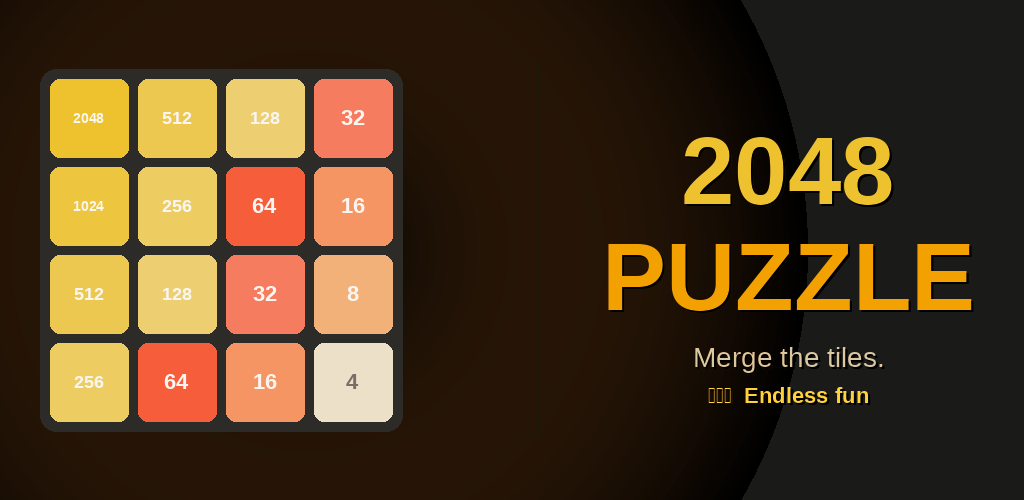
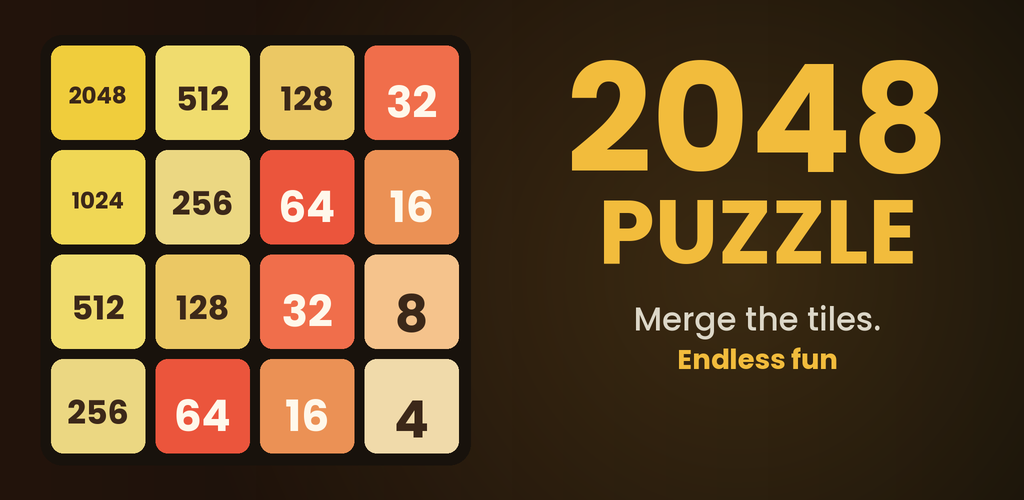
Regenerate Puzzle2048 feature graphic without unsupported emojis
The previous banner showed three "tofu" boxes (□□□) before "Endless
fun" — the source string contained 🪙 (Coin, Unicode 13.0 / 2020) which
the rendering engine's font didn't support and Android <11 doesn't
render either. Replaced with plain-text tagline; no emojis on the
feature graphic per QUALITY_PLAYBOOK §7.1-7.2.

scripts/gen_puzzle2048_feature.py committed as the source generator
so this graphic is reproducible (the original generator was a
one-off that wasn't checked in).

diff --git a/scripts/gen_puzzle2048_feature.py b/scripts/gen_puzzle2048_feature.py
@@ -1,0 +1,166 @@
+#!/usr/bin/env python3
+"""Regenerate Puzzle2048 feature graphic at 1024x500 without emojis.
+
+Matches the existing visual: dark brown gradient + 4x4 tile board on
+left + big yellow "2048 PUZZLE" + tagline on right. Drops the three
+"tofu" boxes (Emoji 13.0 coin glyphs that don't render on Android <11).
+"""
+from PIL import Image, ImageDraw, ImageFilter, ImageFont
+import math
+
+SUPER = 2
+W = 1024 * SUPER
+H = 500 * SUPER
+OUT = '/home/pgs/Documents/Gs/Puzzle2048/store/feature_graphic_1024x500.png'
+
+FONT_BOLD = '/home/pgs/Documents/Gs/scripts/fonts/Poppins-Bold.ttf'
+FONT_MED  = '/home/pgs/Documents/Gs/scripts/fonts/Poppins-Medium.ttf'
+
+# Tile colors matching the 2048 game palette (approx the screenshot)
+TILE_COLORS = {
+    2:    (255, 230, 200),
+    4:    (240, 218, 170),
+    8:    (245, 195, 140),
+    16:   (235, 145,  85),
+    32:   (240, 110,  75),
+    64:   (235,  85,  60),
+    128:  (235, 200, 100),
+    256:  (235, 215, 130),
+    512:  (240, 220, 110),
+    1024: (240, 215,  85),
+    2048: (240, 205,  60),
+}
+
+# 4x4 board values (left-to-right, top-to-bottom) — matches existing banner
+BOARD = [
+    [2048, 512, 128, 32],
+    [1024, 256,  64, 16],
+    [ 512, 128,  32,  8],
+    [ 256,  64,  16,  4],
+]
+
+BG_LEFT   = (35, 20, 12)
+BG_RIGHT  = (15, 12,  8)
+GLOW      = (240, 175, 60)
+TEXT_GOLD = (242, 188, 60)
+TEXT_DIM  = (220, 215, 200)
+
+
+def gradient_bg():
+    img = Image.new('RGB', (W, H), BG_LEFT)
+    px = img.load()
+    cx, cy = int(W * 0.72), int(H * 0.55)   # right-of-center
+    max_r  = int(W * 0.55)
+    for y in range(H):
+        for x in range(W):
+            # Distance from glow center (used to lighten right side)
+            d = math.hypot(x - cx, y - cy) / max_r
+            d = max(0.0, min(1.0, d))
+            t = x / W
+            base = (
+                int(BG_LEFT[0] + (BG_RIGHT[0] - BG_LEFT[0]) * t),
+                int(BG_LEFT[1] + (BG_RIGHT[1] - BG_LEFT[1]) * t),
+                int(BG_LEFT[2] + (BG_RIGHT[2] - BG_LEFT[2]) * t),
+            )
+            glow_strength = max(0, 1 - d) * 0.18
+            px[x, y] = (
+                int(base[0] + (GLOW[0] - base[0]) * glow_strength),
+                int(base[1] + (GLOW[1] - base[1]) * glow_strength),
+                int(base[2] + (GLOW[2] - base[2]) * glow_strength),
+            )
+    return img
+
+
+def round_rect(draw, xy, radius, fill):
+    x0, y0, x1, y1 = xy
+    draw.rounded_rectangle(xy, radius=radius, fill=fill)
+
+
+def text_size(draw, text, font):
+    bbox = draw.textbbox((0, 0), text, font=font)
+    return bbox[2] - bbox[0], bbox[3] - bbox[1]
+
+
+def draw_tile(canvas, x, y, size, value):
+    color = TILE_COLORS.get(value, (200, 200, 200))
+    d = ImageDraw.Draw(canvas)
+    radius = int(size * 0.13)
+    round_rect(d, (x, y, x + size, y + size), radius, color)
+    # Tile number — sized so 4-digit values still fit
+    digits = len(str(value))
+    base = int(size * 0.55)
+    fs = {1: base, 2: int(base * 0.85), 3: int(base * 0.65), 4: int(base * 0.45)}[digits]
+    font = ImageFont.truetype(FONT_BOLD, fs)
+    tw, th = text_size(d, str(value), font)
+    # Dark text on lighter tiles, light text on darker ones — use luminance
+    lum = 0.299 * color[0] + 0.587 * color[1] + 0.114 * color[2]
+    text_color = (60, 40, 25) if lum > 180 else (255, 248, 235)
+    d.text(
+        (x + size / 2 - tw / 2, y + size / 2 - th / 2 - int(size * 0.05)),
+        str(value), font=font, fill=text_color,
+    )
+
+
+def main():
+    img = gradient_bg()
+    d = ImageDraw.Draw(img)
+
+    # ── Left: 4x4 tile board ───────────────────────────────────────
+    board_w = int(W * 0.42)
+    margin  = int(W * 0.04)
+    board_x = margin
+    board_y = (H - board_w) // 2
+    # Board background (slightly darker)
+    round_rect(d, (board_x, board_y, board_x + board_w, board_y + board_w),
+               int(board_w * 0.05), (24, 18, 12))
+    # Tiles
+    pad = int(board_w * 0.025)
+    tile_size = (board_w - pad * 5) // 4
+    for row in range(4):
+        for col in range(4):
+            tx = board_x + pad + col * (tile_size + pad)
+            ty = board_y + pad + row * (tile_size + pad)
+            draw_tile(img, tx, ty, tile_size, BOARD[row][col])
+
+    # ── Right: title + tagline ─────────────────────────────────────
+    title_x_center = int(W * 0.74)
+    # "2048" — big
+    f_title = ImageFont.truetype(FONT_BOLD, int(H * 0.30))
+    title_y = int(H * 0.12)
+    # Use textbbox so we get tight metric height (ignoring leading)
+    _, _, tw, _ = d.textbbox((0, 0), "2048", font=f_title)
+    title_actual_h = f_title.getbbox("2048")[3] - f_title.getbbox("2048")[1]
+    d.text((title_x_center - tw // 2, title_y), "2048",
+           font=f_title, fill=TEXT_GOLD, anchor="lt")
+    # "PUZZLE" — line BELOW "2048"
+    f_subtitle = ImageFont.truetype(FONT_BOLD, int(H * 0.18))
+    p_text = "PUZZLE"
+    _, _, pw, _ = d.textbbox((0, 0), p_text, font=f_subtitle)
+    sub_y = title_y + int(H * 0.28)
+    d.text((title_x_center - pw // 2, sub_y), p_text,
+           font=f_subtitle, fill=TEXT_GOLD, anchor="lt")
+
+    # Tagline 1: "Merge the tiles."
+    f_tag = ImageFont.truetype(FONT_MED, int(H * 0.065))
+    line1 = "Merge the tiles."
+    _, _, lw, _ = d.textbbox((0, 0), line1, font=f_tag)
+    tag1_y = sub_y + int(H * 0.21)
+    d.text((title_x_center - lw // 2, tag1_y), line1,
+           font=f_tag, fill=TEXT_DIM, anchor="lt")
+
+    # Tagline 2: "Endless fun" — short, no emojis
+    f_tag2 = ImageFont.truetype(FONT_BOLD, int(H * 0.055))
+    line2 = "Endless fun"
+    _, _, l2w, _ = d.textbbox((0, 0), line2, font=f_tag2)
+    tag2_y = tag1_y + int(H * 0.085)
+    d.text((title_x_center - l2w // 2, tag2_y), line2,
+           font=f_tag2, fill=TEXT_GOLD, anchor="lt")
+
+    # Downsample for sharp edges
+    img = img.resize((1024, 500), Image.LANCZOS)
+    img.save(OUT, 'PNG', optimize=True)
+    print(f"wrote {OUT} ({img.size[0]}x{img.size[1]})")
+
+
+if __name__ == '__main__':
+    main()
